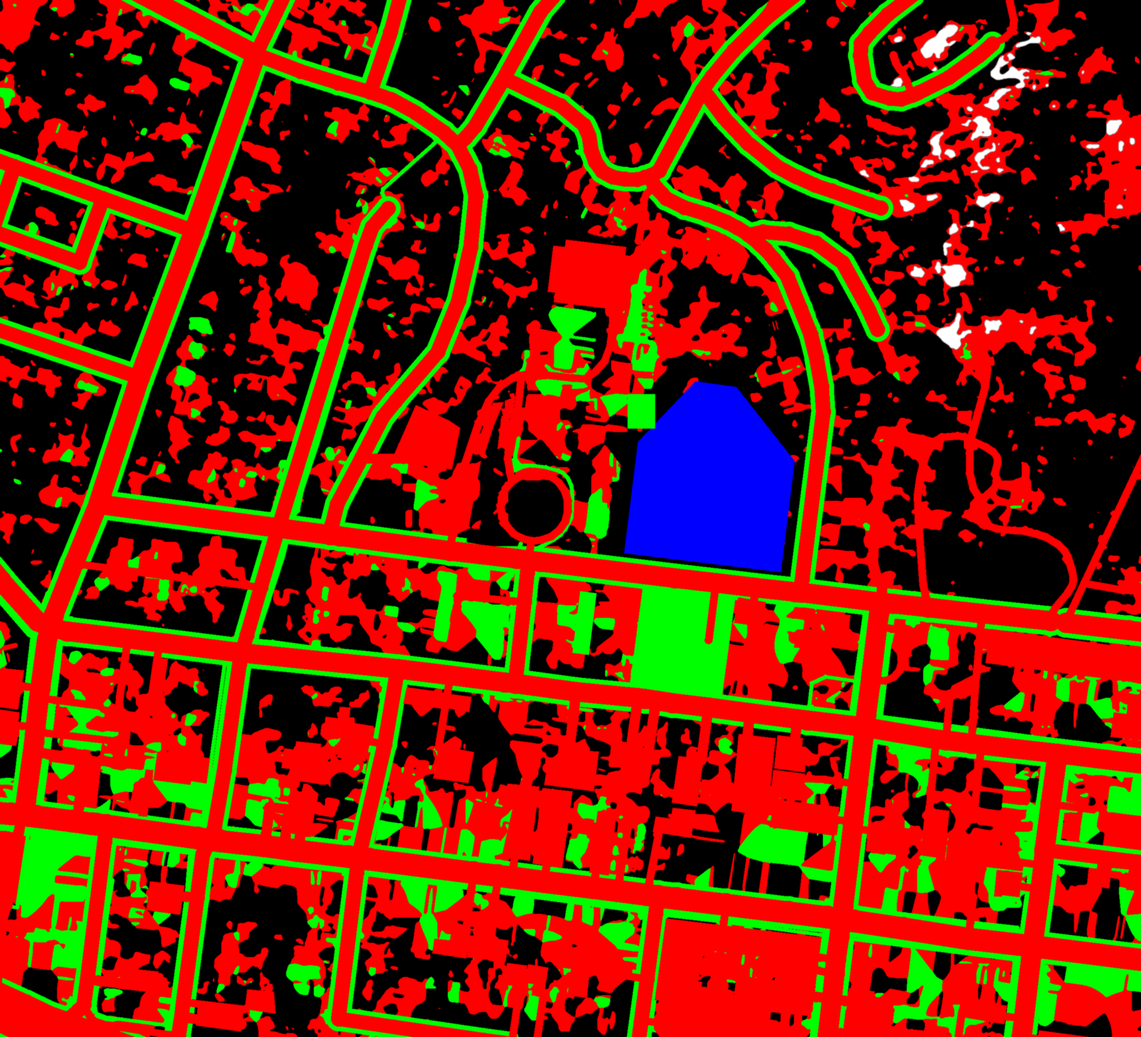
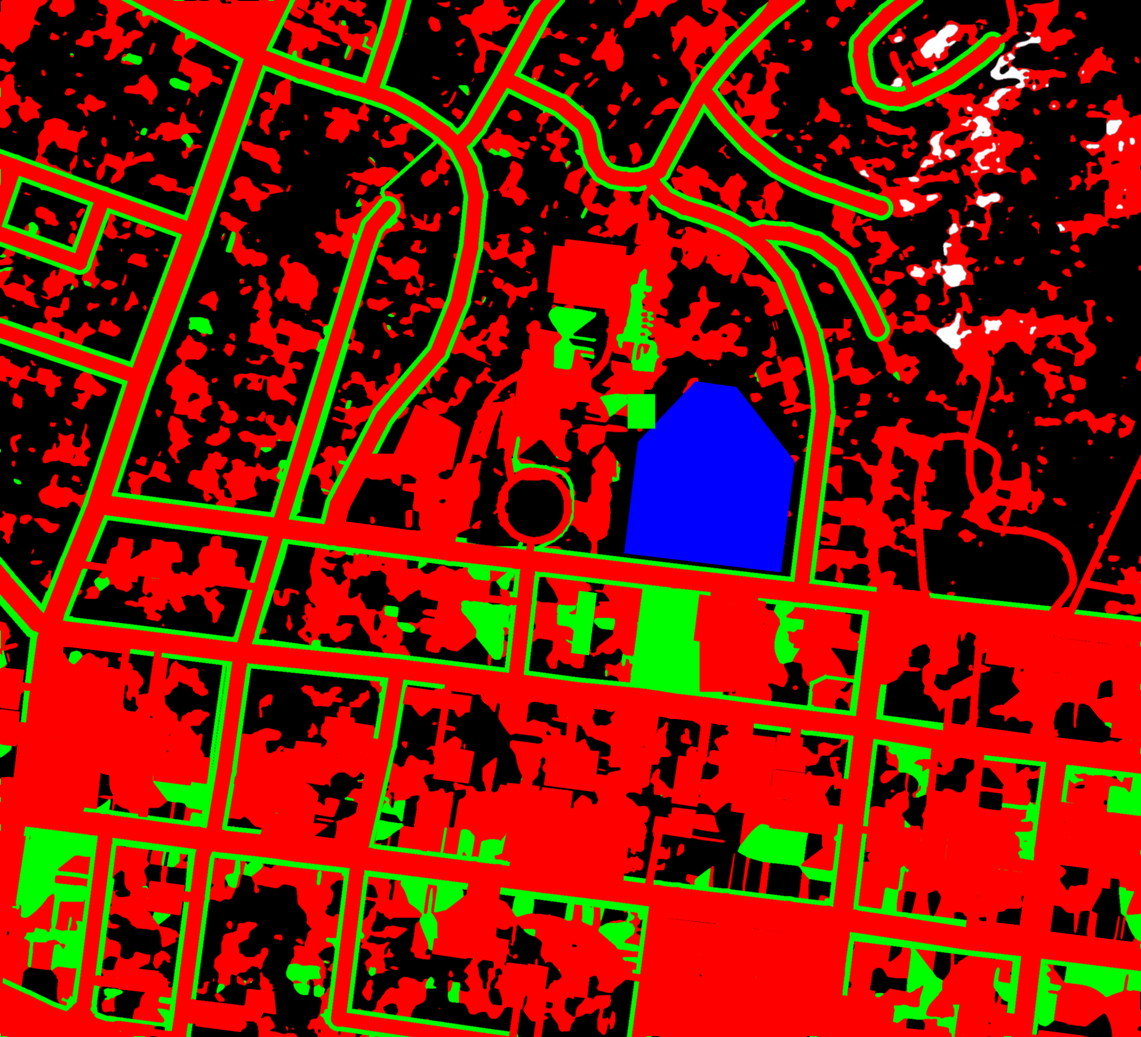
Marin QA fixes: exitable PAC ladder, buses and trees clear of parked cars, tree-sized jittered hill crowns, urban backdrop south/west, hillside houses with two storeys of windows, car-park ground cleaned (mask + photo), courtyard chairs and paving, pool-east lot asphalt, Mission Ave centre line, hel

diff --git a/src/campuses/marin/terrain.js b/src/campuses/marin/terrain.js
@@ -27,7 +27,7 @@ export function buildTerrain(ctx) {
   for (let j = 0; j < n - 1; j++) for (let i = 0; i < n - 1; i++) {
     const c = [[i, j], [i, j + 1], [i + 1, j + 1], [i + 1, j]];
     const any = c.some(([a, b]) => t.h[b * n + a] > 0); const inside = c.every(([a, b]) => inSat(a, b));
-    if (inside && !any) continue;                       // flat ground inside the satellite extent: the ground plane has it
+    if (!any) continue;                                 // flat: the ground plane has it inside the satellite extent, the urban sheet outside
     const dst = inside ? near : far;
     for (const k of [0, 1, 2, 0, 2, 3]) { const [a, b] = c[k]; dst.p.push(X(a), Hh(a, b), Z(b)); if (!inside) dst.c.push(...colAt(a, b)); }
   }
@@ -47,28 +47,83 @@ export function buildTerrain(ctx) {
   { const p = far.p, uv = []; for (let k = 0; k < p.length; k += 3) uv.push(p[k] / 90, p[k + 2] / 90); far.uv = uv; }
   const farMat = new THREE.MeshStandardMaterial({ vertexColors: true, map: tex, roughness: 1, metalness: 0 }); farMat.color.setRGB(2.4, 2.4, 2.4);
   mk(far, farMat, 'terrain:far');
-  // scattered tree crowns and a few hillside houses on the nearer slopes (two instanced meshes, no collision)
-  const H = terrainSampler(gen); const pb = ctx.playBounds; const dummy = new THREE.Object3D(); const col = new THREE.Color();
-  const crowns = [], houses = [];
-  for (let k = 0; k < 9000 && crowns.length < 2600; k++) {
-    const x = (rnd() - 0.5) * 2300, z = (rnd() - 0.5) * 2300; if (x > sat.minX - 10 && x < sat.maxX + 10 && z > sat.minZ - 10 && z < sat.maxZ + 10) continue;
-    const i = Math.round((x - t.x0) / t.step), j = Math.round((z - t.z0) / t.step); if (i < 1 || j < 1 || i > n - 2 || j > n - 2) continue;
-    const h = H(x, z) * edge(i, j); if (h < 2) continue; if (sm(i, j) > 0.6 && rnd() < 0.8) continue;      // keep the grass clearings open
-    crowns.push([x, h, z, 5 + rnd() * 5, rnd()]);
-    if (houses.length < 160 && h < 110 && rnd() < 0.09) houses.push([x + 9, h, z + 4, rnd()]);
+  // ---- flat land beyond the satellite photo: downtown San Rafael and the neighbourhoods carry on to the horizon as an
+  // "urban sheet" (street grid, roofs and street trees painted into one tiling texture, laid on the campus street grid)
+  // instead of a bare green plain. 8 triangles; the hills rise through it.
+  {
+    const S = 512, cv2 = makeCanvas(S, S), g2 = cv2.getContext('2d'); const r2 = mulberry32(94901); const nb = 4, bw = S / nb, st = 18;
+    g2.fillStyle = '#6d6e70'; g2.fillRect(0, 0, S, S);
+    const roofs = ['#cfccc4', '#b9b6ae', '#a8a59b', '#b3a386', '#8d8a84', '#96604c', '#d8d5cf', '#7c7b78', '#a79a8c'];
+    for (let by = 0; by < nb; by++) for (let bx = 0; bx < nb; bx++) {
+      const x0 = bx * bw + st / 2, y0 = by * bw + st / 2, w = bw - st; const leafy = r2() < 0.45;
+      g2.fillStyle = leafy ? '#5d6b4c' : '#85837c'; g2.fillRect(x0, y0, w, w);
+      g2.fillStyle = 'rgba(205,203,196,0.55)'; g2.fillRect(x0, y0, w, 2.5); g2.fillRect(x0, y0 + w - 2.5, w, 2.5); g2.fillRect(x0, y0, 2.5, w); g2.fillRect(x0 + w - 2.5, y0, 2.5, w);   // sidewalks
+      for (let k = 0, nR = leafy ? 9 : 6; k < nR; k++) { const rw = (leafy ? 12 : 22) + r2() * (leafy ? 14 : 34), rh = (leafy ? 12 : 18) + r2() * (leafy ? 12 : 26); const rx = x0 + 4 + r2() * Math.max(1, w - rw - 8), ry = y0 + 4 + r2() * Math.max(1, w - rh - 8); g2.fillStyle = 'rgba(20,22,20,0.35)'; g2.fillRect(rx + 2, ry + 2, rw, rh); g2.fillStyle = roofs[Math.floor(r2() * roofs.length)]; g2.fillRect(rx, ry, rw, rh); }
+      for (let k = 0, nT = leafy ? 30 : 9; k < nT; k++) { const tx = x0 + r2() * w, ty = y0 + r2() * w, tr = 3 + r2() * 4.5; g2.fillStyle = 'rgba(12,22,10,0.4)'; g2.beginPath(); g2.arc(tx + 1.5, ty + 1.5, tr, 0, 7); g2.fill(); g2.fillStyle = `rgb(${38 + r2() * 22 | 0},${74 + r2() * 30 | 0},${30 + r2() * 14 | 0})`; g2.beginPath(); g2.arc(tx, ty, tr, 0, 7); g2.fill(); }
+    }
+    const utex = canvasTexture(cv2, { aniso: 8 }); const TILE = 330, ca = Math.cos(0.12566), sa = Math.sin(0.12566);
+    const R = 6000, y = -0.1, x0 = sat.minX + 2, x1 = sat.maxX - 2, z0 = sat.minZ + 2, z1 = sat.maxZ - 2; const up = { p: [], uv: [] };
+    const q = (ax, az, bx, bz) => { for (const [x, z] of [[ax, az], [ax, bz], [bx, bz], [ax, az], [bx, bz], [bx, az]]) { up.p.push(x, y, z); up.uv.push((x * ca + z * sa) / TILE, (-x * sa + z * ca) / TILE); } };
+    q(-R, -R, R, z0); q(-R, z1, R, R); q(-R, z0, x0, z1); q(x1, z0, R, z1);
+    const um = new THREE.MeshStandardMaterial({ map: utex, roughness: 1, metalness: 0 }); um.color.setRGB(0.7, 0.7, 0.68);
+    mk(up, um, 'terrain:urban');
   }
-  if (crowns.length) {
-    // canopy dome: 18 smooth-shaded triangles, open underneath (never seen from below), darker toward the skirt so the
-    // massed crowns read as rounded oak / bay canopy with depth instead of flat-shaded polyhedra
-    const P = [[0, 0.86, 0]], C = [[1.08, 1.08, 1.08]]; const N = 6, da = Math.PI * 2 / N;
-    for (let k = 0; k < N; k++) { const a = k * da; P.push([Math.cos(a) * 0.82, 0.5, Math.sin(a) * 0.82]); C.push([0.95, 0.95, 0.95]); }
-    for (let k = 0; k < N; k++) { const a = (k + 0.5) * da; P.push([Math.cos(a) * 1.06, -0.42, Math.sin(a) * 1.06]); C.push([0.42, 0.42, 0.42]); }
-    const idx = []; for (let k = 0; k < N; k++) { const u0 = 1 + k, u1 = 1 + (k + 1) % N, l0 = 1 + N + k, l1 = 1 + N + (k + 1) % N; idx.push(0, u1, u0, u0, u1, l0, u1, l1, l0); }
-    const dg = new THREE.BufferGeometry(); dg.setAttribute('position', new THREE.Float32BufferAttribute(P.flat(), 3)); dg.setAttribute('color', new THREE.Float32BufferAttribute(C.flat(), 3));
-    dg.setAttribute('normal', new THREE.Float32BufferAttribute(P.flatMap(([x, y, z]) => { const yy = y + 0.45, l = Math.hypot(x, yy, z); return [x / l, yy / l, z / l]; }), 3)); dg.setIndex(idx);
-    const im = new THREE.InstancedMesh(dg, new THREE.MeshStandardMaterial({ roughness: 1, vertexColors: true }), crowns.length);
-    crowns.forEach(([x, y, z, r, v], k) => { const rr = r * 1.3; dummy.position.set(x, y + rr * 0.42, z); dummy.scale.set(rr, rr * (0.75 + v * 0.5), rr * (0.9 + ((v * 7) % 1) * 0.3)); dummy.rotation.set(0, v * 6, 0); dummy.updateMatrix(); im.setMatrixAt(k, dummy.matrix); const d = (v * 13) % 1; col.setRGB(0.026 + v * 0.03 + d * 0.012, 0.1 + v * 0.05 + d * 0.02, 0.016 + v * 0.012); im.setColorAt(k, col); });
-    im.name = 'terrain:crowns'; im.castShadow = false; im.receiveShadow = false; im.matrixAutoUpdate = false; im.instanceMatrix.needsUpdate = true; im.computeBoundingSphere(); scene.add(im);
+  // ---- tree crowns on the hills and among the flat-land blocks, plus a few hillside houses and low-rise roofs
+  // (instanced, no collision). Crowns are the size of the real trees; the band next to the photo edge is dense so the
+  // modelled trees do not stop on a line, farther out they thin and drop to 5 triangles each.
+  const H = terrainSampler(gen); const dummy = new THREE.Object3D(); const col = new THREE.Color();
+  const hAt = (x, z) => { const i = Math.round((x - t.x0) / t.step), j = Math.round((z - t.z0) / t.step); if (i < 1 || j < 1 || i > n - 2 || j > n - 2) return null; return { h: H(x, z) * edge(i, j), i, j }; };
+  const outside = (x, z) => Math.max(sat.minX - x, x - sat.maxX, sat.minZ - z, z - sat.maxZ);   // metres beyond the photo edge (< 0 inside)
+  const nearC = [], farC = [], houses = [], blocks = [];
+  for (let k = 0; k < 30000 && nearC.length < 2700; k++) {   // within 260 m of the photo: full domes
+    const x = sat.minX - 260 + rnd() * (sat.maxX - sat.minX + 520), z = sat.minZ - 260 + rnd() * (sat.maxZ - sat.minZ + 520); const d = outside(x, z); if (d < -1) continue;
+    const s = hAt(x, z); if (!s) continue; const hill = s.h >= 1.5;
+    if (rnd() > (d < 45 ? 1 : hill ? 0.8 : 0.16)) continue;                       // dense first row, wooded hills, sparse street trees
+    if (hill && d > 45 && sm(s.i, s.j) > 0.6 && rnd() < 0.8) continue;            // keep the grass clearings open
+    nearC.push([x, Math.max(0, s.h), z, 3.0 + rnd() * 2.6, rnd()]);
+    if (hill && houses.length < 60 && s.h < 110 && rnd() < 0.05) houses.push([x + 9, s.h, z + 4, rnd()]);
+  }
+  for (let k = 0; k < 30000 && farC.length < 2840; k++) {   // the rest of the hills
+    const x = (rnd() - 0.5) * 2400, z = (rnd() - 0.5) * 2400; if (outside(x, z) < 260) continue;
+    const s = hAt(x, z); if (!s || s.h < 2) continue; if (sm(s.i, s.j) > 0.6 && rnd() < 0.8) continue;
+    farC.push([x, s.h, z, 4.2 + rnd() * 3.4, rnd()]);
+    if (houses.length < 160 && s.h < 110 && rnd() < 0.04) houses.push([x + 9, s.h, z + 4, rnd()]);
+  }
+  for (let k = 0; k < 20000 && blocks.length < 520; k++) {  // low-rise roofs on the flat land south / west / east
+    const x = sat.minX - 420 + rnd() * (sat.maxX - sat.minX + 840), z = sat.minZ - 420 + rnd() * (sat.maxZ - sat.minZ + 840); const d = outside(x, z); if (d < 8) continue;
+    const s = hAt(x, z); if (!s || s.h > 0.3) continue; if (rnd() < d / 520) continue;
+    blocks.push([x, z, rnd(), rnd()]);
+  }
+  {
+    // leaf-clump texture so the crowns are not smooth blobs
+    const S = 64, lc = makeCanvas(S, S), lg = lc.getContext('2d'); lg.fillStyle = '#c4c4c4'; lg.fillRect(0, 0, S, S);
+    for (let k = 0; k < 260; k++) { const x = rnd() * S, y = rnd() * S, r = 1.2 + rnd() * 2.6, v = rnd() < 0.5 ? 255 : 40; lg.fillStyle = `rgba(${v},${v},${v},${0.12 + rnd() * 0.16})`; for (const [ox, oy] of [[0, 0], [S, 0], [-S, 0], [0, S], [0, -S]]) { lg.beginPath(); lg.arc(x + ox, y + oy, r, 0, 7); lg.fill(); } }
+    const leaf = canvasTexture(lc, { aniso: 2 });
+    const crownMesh = (list, full, name) => {
+      if (!list.length) return; const N = 5, da = Math.PI * 2 / N, jr = mulberry32(full ? 7 : 8); const P = [[0.06, full ? 0.9 : 0.62, -0.04]], C = [[1.05, 1.05, 1.05]];
+      for (let k = 0; k < N; k++) { const a = k * da + (jr() - 0.5) * 0.4, r = (full ? 0.78 : 1.0) * (0.84 + jr() * 0.32); P.push([Math.cos(a) * r, full ? 0.44 + jr() * 0.16 : -0.1, Math.sin(a) * r]); C.push(full ? [0.9, 0.9, 0.9] : [0.5, 0.5, 0.5]); }
+      if (full) for (let k = 0; k < N; k++) { const a = (k + 0.5) * da + (jr() - 0.5) * 0.4, r = 1.02 * (0.86 + jr() * 0.28); P.push([Math.cos(a) * r, -0.42 + jr() * 0.14, Math.sin(a) * r]); C.push([0.4, 0.4, 0.4]); }
+      const idx = []; for (let k = 0; k < N; k++) { const u0 = 1 + k, u1 = 1 + (k + 1) % N; idx.push(0, u1, u0); if (full) { const l0 = 1 + N + k, l1 = 1 + N + (k + 1) % N; idx.push(u0, u1, l0, u1, l1, l0); } }
+      const dg = new THREE.BufferGeometry(); dg.setAttribute('position', new THREE.Float32BufferAttribute(P.flat(), 3)); dg.setAttribute('color', new THREE.Float32BufferAttribute(C.flat(), 3));
+      dg.setAttribute('normal', new THREE.Float32BufferAttribute(P.flatMap(([x, y, z]) => { const yy = y + 0.45, l = Math.hypot(x, yy, z); return [x / l, yy / l, z / l]; }), 3));
+      dg.setAttribute('uv', new THREE.Float32BufferAttribute(P.flatMap(([x, y, z]) => [x * 0.9 + y * 0.35, z * 0.9 - y * 0.35]), 2)); dg.setIndex(idx);
+      const im = new THREE.InstancedMesh(dg, new THREE.MeshStandardMaterial({ roughness: 1, vertexColors: true, map: leaf }), list.length);
+      list.forEach(([x, y, z, r, v], k) => { dummy.position.set(x, y + (full ? r * 0.95 : r * 0.35), z); dummy.scale.set(r, r * (0.95 + v * 0.5), r * (0.85 + ((v * 7) % 1) * 0.3)); dummy.rotation.set(0, v * 6.283, 0); dummy.updateMatrix(); im.setMatrixAt(k, dummy.matrix); const d = (v * 13) % 1; col.setRGB(0.07 + v * 0.04 + d * 0.02, 0.17 + v * 0.07 + d * 0.04, 0.04 + v * 0.02); im.setColorAt(k, col); });
+      im.name = name; im.castShadow = false; im.receiveShadow = false; im.matrixAutoUpdate = false; im.instanceMatrix.needsUpdate = true; im.computeBoundingSphere(); scene.add(im);
+    };
+    crownMesh(nearC, true, 'terrain:crowns'); crownMesh(farC, false, 'terrain:crowns-far');
+  }
+  if (blocks.length) {
+    // roof boxes: four walls + a lighter top (10 triangles), on the street grid
+    const pos = [], cl = []; const cs = [[-0.5, -0.5], [0.5, -0.5], [0.5, 0.5], [-0.5, 0.5]];
+    const tri = (a, b, c, k) => { pos.push(...a, ...b, ...c); cl.push(k, k, k, k, k, k, k, k, k); }; const quad = (a, b, c, d, k) => { tri(a, b, c, k); tri(a, c, d, k); };
+    for (let i = 0; i < 4; i++) { const a = cs[i], b = cs[(i + 1) % 4]; quad([b[0], 0, b[1]], [a[0], 0, a[1]], [a[0], 1, a[1]], [b[0], 1, b[1]], 0.72); }
+    quad([-0.5, 1, 0.5], [0.5, 1, 0.5], [0.5, 1, -0.5], [-0.5, 1, -0.5], 1.0);
+    const bg = new THREE.BufferGeometry(); bg.setAttribute('position', new THREE.Float32BufferAttribute(pos, 3)); bg.setAttribute('color', new THREE.Float32BufferAttribute(cl, 3)); bg.computeVertexNormals();
+    const im = new THREE.InstancedMesh(bg, new THREE.MeshStandardMaterial({ roughness: 0.95, vertexColors: true }), blocks.length);
+    const tones = [[0.62, 0.6, 0.56], [0.5, 0.49, 0.47], [0.56, 0.5, 0.4], [0.7, 0.69, 0.66], [0.4, 0.4, 0.4], [0.5, 0.32, 0.25]];
+    blocks.forEach(([x, z, v, w], k) => { const big = w < 0.3; dummy.position.set(x, -0.1, z); dummy.scale.set(big ? 26 + v * 26 : 10 + v * 9, big ? 5 + w * 14 : 4.5 + w * 4, big ? 18 + ((v * 7) % 1) * 20 : 8 + ((v * 5) % 1) * 7); dummy.rotation.set(0, -0.12566 + (((v * 3) % 1) < 0.5 ? 0 : Math.PI / 2), 0); dummy.updateMatrix(); im.setMatrixAt(k, dummy.matrix); const c = tones[Math.floor(((v * 11) % 1) * tones.length)]; col.setRGB(c[0], c[1], c[2]); im.setColorAt(k, col); });
+    im.name = 'terrain:blocks'; im.castShadow = false; im.matrixAutoUpdate = false; im.instanceMatrix.needsUpdate = true; im.computeBoundingSphere(); scene.add(im);
   }
   if (houses.length) {
     // hillside house: four walls + a hip roof (14 triangles, vertex-coloured so one instanced mesh has pale walls and

diff --git a/src/campuses/marin/grounds.js b/src/campuses/marin/grounds.js
@@ -211,21 +211,44 @@ function vehicles(ctx) {
   const placed = []; let n = 0;
   const inPlay = (x, z, m = 3) => x > pb.minX + m && x < pb.maxX - m && z > pb.minZ + m && z < pb.maxZ - m;
   const keep = ctx.keepClear || [];
+  // the school buses (placed after the cars) and tree trunks: no car may overlap them. A car rejected for one of these
+  // still draws its three random numbers, so every other car keeps its place, type and colour.
+  const buses = [[...G(52, 26.9), ROT], [...G(-8, -134.5), ROT + Math.PI / 2], [...G(43, -128), ROT + Math.PI / 2]];
+  const trunks = (ctx.gen.trees || []).filter((t) => inPlay(t[0], t[1], -4));
+  const overlaps = (x, z, h, bx, bz, bh, hl, hw) => {   // oriented rectangles: car (2.3 x 0.95 half extents) vs (hl x hw) at (bx, bz, bh)
+    const R = [[x, z, h, 2.3, 0.95], [bx, bz, bh, hl, hw]];
+    for (const [, , a] of R) for (const ax of [[Math.cos(a), -Math.sin(a)], [Math.sin(a), Math.cos(a)]]) {
+      const ext = R.map(([cx, cz, hh, l, w]) => [cx * ax[0] + cz * ax[1], Math.abs(l * (Math.cos(hh) * ax[0] - Math.sin(hh) * ax[1])) + Math.abs(w * (Math.sin(hh) * ax[0] + Math.cos(hh) * ax[1]))]);
+      if (Math.abs(ext[0][0] - ext[1][0]) > ext[0][1] + ext[1][1]) return false;
+    }
+    return true;
+  };
   const car = (x, z, heading) => {
     if (!inPlay(x, z)) return; if (keep.some(([kx, kz, r]) => Math.hypot(x - kx, z - kz) < r)) return;
     if (placed.some(([px, pz]) => Math.hypot(px - x, pz - z) < 2.5)) return;
     for (const r of ctx.buildingRings || []) if (pointInRing(x, z, r)) return;
+    if (buses.some(([bx, bz, bh]) => overlaps(x, z, heading, bx - 0.15 * Math.cos(bh), bz + 0.15 * Math.sin(bh), bh, 6.1, 1.6)) || trunks.some((t) => Math.hypot(t[0] - x, t[1] - z) < 3.4 && overlaps(x, z, heading, t[0], t[1], 0, 0.15, 0.15))) { rnd(); rnd(); rnd(); placed.push([x, z]); return; }
     propKit.placeCar(ctx, pick(), x, z, heading + (rnd() - 0.5) * 0.05, propKit.CAR_COLORS[Math.floor(rnd() * propKit.CAR_COLORS.length)]); placed.push([x, z]); n++;
   };
   // stall paint: 10 cm lines just above the asphalt, one merged mesh, worn and faded out with distance (visual only)
-  const stripes = [], seen = new Set();
+  const stripes = [], stripeCol = [], seen = new Set();
   const stall = (cx, cz, dx, dz) => {
     const key = Math.round(cx * 4) + ',' + Math.round(cz * 4); if (seen.has(key)) return; seen.add(key);
     const h = 2.45, w = 0.05, y = 0.017; const a = [cx - dx * h, cz - dz * h], b = [cx + dx * h, cz + dz * h], px = -dz * w, pz = dx * w;
     const q = [[a[0] - px, a[1] - pz], [a[0] + px, a[1] + pz], [b[0] + px, b[1] + pz], [b[0] - px, b[1] - pz]];
     const up = (q[1][0] - q[0][0]) * (q[3][1] - q[0][1]) - (q[1][1] - q[0][1]) * (q[3][0] - q[0][0]) < 0;
-    for (const k of (up ? [0, 1, 2, 0, 2, 3] : [0, 2, 1, 0, 3, 2])) stripes.push(q[k][0], y, q[k][1]);
+    for (const k of (up ? [0, 1, 2, 0, 2, 3] : [0, 2, 1, 0, 3, 2])) { stripes.push(q[k][0], y, q[k][1]); stripeCol.push(0.84, 0.835, 0.8); }
   };
+  // Mission Avenue's double yellow centre line (the satellite paint is smoothed away up close)
+  for (const r of data.roads) {
+    if (r.tags.name !== 'Mission Avenue') continue;
+    for (let i = 0; i < r.line.length - 1; i++) {
+      const a = r.line[i], b = r.line[i + 1]; const L = Math.hypot(b[0] - a[0], b[1] - a[1]); if (L < 0.5 || !inPlay((a[0] + b[0]) / 2, (a[1] + b[1]) / 2, -30)) continue; const nx = -(b[1] - a[1]) / L, nz = (b[0] - a[0]) / L;
+      for (const o of [-0.11, 0.11]) { const q = [[a[0] + nx * (o - 0.05), a[1] + nz * (o - 0.05)], [a[0] + nx * (o + 0.05), a[1] + nz * (o + 0.05)], [b[0] + nx * (o + 0.05), b[1] + nz * (o + 0.05)], [b[0] + nx * (o - 0.05), b[1] + nz * (o - 0.05)]];
+        const up = (q[1][0] - q[0][0]) * (q[3][1] - q[0][1]) - (q[1][1] - q[0][1]) * (q[3][0] - q[0][0]) < 0;
+        for (const k of (up ? [0, 1, 2, 0, 2, 3] : [0, 2, 1, 0, 3, 2])) { stripes.push(q[k][0], 0.017, q[k][1]); stripeCol.push(0.8, 0.6, 0.08); } }
+    }
+  }
   // car parks (OSM amenity=parking): rows of stalls along the long axis, alternating with aisles
   for (const a of data.areas) {
     if (a.tags.amenity !== 'parking') continue; const ring = ensureCCW(a.outer[0]); const o = minAreaOBB(ring); if (!o) continue;
@@ -265,11 +288,12 @@ function vehicles(ctx) {
     const hw = r.tags.highway; if (hw !== 'tertiary' && hw !== 'secondary' && hw !== 'primary') continue;
     for (let i = 0; i < r.line.length - 1; i++) { const a = r.line[i], b = r.line[i + 1]; const L = Math.hypot(b[0] - a[0], b[1] - a[1]); if (L < 30) continue; const tx = (b[0] - a[0]) / L, tz = (b[1] - a[1]) / L; if (rnd() < 0.55) { const d = 10 + rnd() * (L - 20), sd = rnd() < 0.5 ? 1 : -1; car(a[0] + tx * d - tz * sd * 1.7, a[1] + tz * d + tx * sd * 1.7, Math.atan2(-tz, tx) + (sd > 0 ? 0 : Math.PI)); } }
   }
-  { const p = G(52, 26.9); propKit.placeBus(ctx, p[0], p[1], ROT); const q = G(-8, -134.5); propKit.placeBus(ctx, q[0], q[1], ROT + Math.PI / 2); const s = G(43, -128); propKit.placeBus(ctx, s[0], s[1], ROT + Math.PI / 2); }
+  for (const [bx, bz, bh] of buses) propKit.placeBus(ctx, bx, bz, bh);
   if (stripes.length) {
     const g = new THREE.BufferGeometry(); g.setAttribute('position', new THREE.Float32BufferAttribute(stripes, 3));
     g.setAttribute('normal', new THREE.Float32BufferAttribute(new Float32Array(stripes.length).map((_, i) => (i % 3 === 1 ? 1 : 0)), 3));
-    const mat = new THREE.MeshStandardMaterial({ color: 0xd6d5cc, roughness: 0.85, transparent: true, depthWrite: false, polygonOffset: true, polygonOffsetFactor: -3, polygonOffsetUnits: -3 });
+    g.setAttribute('color', new THREE.Float32BufferAttribute(stripeCol, 3));
+    const mat = new THREE.MeshStandardMaterial({ vertexColors: true, roughness: 0.85, transparent: true, depthWrite: false, polygonOffset: true, polygonOffsetFactor: -3, polygonOffsetUnits: -3 });
     const wear = (shader) => { shader.fragmentShader = shader.fragmentShader.replace('#include <map_fragment>', `#include <map_fragment>
   { float sd = length(vWPos - cameraPosition); vec2 sp = vWPos.xz * 3.1;
     float sw = fract(sin(dot(floor(sp * 6.0), vec2(12.9898, 78.233))) * 43758.5453) * 0.35 + fract(sin(dot(floor(sp), vec2(39.3468, 11.135))) * 24634.6345) * 0.4;
@@ -278,7 +302,7 @@ function vehicles(ctx) {
     ctx.applyBakedShadow(mat, ctx.sky.shadowUniforms, wear);
     const mesh = new THREE.Mesh(g, mat); mesh.name = 'stall-paint'; mesh.receiveShadow = true; mesh.castShadow = false; mesh.matrixAutoUpdate = false; mesh.renderOrder = 1; ctx.scene.add(mesh);
   }
-  ctx.stats = { cars: n, stallLines: stripes.length / 18 };
+  ctx.stats = { cars: n, paintLines: stripes.length / 18 };
 }
 
 // ------------------------------------------------------------------------------------------ streets

diff --git a/src/campuses/marin/school.js b/src/campuses/marin/school.js
@@ -214,8 +214,8 @@ function leadershipCenter(ctx) {
   { const wr = wellRoof(ctx, boxFromRect(29.9, 60.4, 12.9, 42.4), 9.4, 2.3, 3.3, { overhang: 0.8 }); const a = gp(29.9, 60.4, 0, -6.5); solarRows(ctx, a[0], a[1], 4.8, 20, wr.deck, 8); const r2 = mulberry32(13); for (const b of [9, 14.5]) { const p = gp(29.9, 60.4, 0, b); roofUnit(ctx, p[0], wr.deck, p[1], ROT + Math.PI / 2, r2); } }
   hipBuilding(ctx, rect(18.9, 58.6, 9.6, 34.6), 8.9, 'maMission', { rise: 2.2, overhang: 0.7, roofs: [boxFromRect(18.9, 58.6, 9.6, 34.6)] });
   // courtyard between the two: paved patio, pergola on the Mission Ave side, cafe tables
-  const pv = B.v('maPaver'); const c = rect(8.1, 60.5, 9.6, 36), y = 0.03;
-  pv.quad([c[3][0], y, c[3][1]], [c[2][0], y, c[2][1]], [c[1][0], y, c[1][1]], [c[0][0], y, c[0][1]], [0, 0], [4, 0], [4, 15], [0, 15]);
+  const pv = B.v('maPaver'); const c = rect(7.7, 60.5, 10.4, 36), y = 0.03;   // wall to wall between the two buildings
+  pv.quad([c[3][0], y, c[3][1]], [c[2][0], y, c[2][1]], [c[1][0], y, c[1][1]], [c[0][0], y, c[0][1]], [0, 0], [4.333, 0], [4.333, 15], [0, 15]);
   for (let i = 0; i < 4; i++) for (const b of [-21.5, -18.2]) { const p = gp(8.1, 60.5, -4.4 + i * 2.93, b); B.v('wood').box(p[0], 1.55, p[1], 0.22, 3.1, 0.22, ROT, 0.5); B.c('wood').box(p[0], 1.55, p[1], 0.3, 3.1, 0.3, ROT); }
   for (const b of [-21.5, -18.2]) { const p = gp(8.1, 60.5, 0, b); B.v('wood').box(p[0], 3.2, p[1], 10.2, 0.22, 0.16, ROT, 0.5); }
   for (let a = -4.8; a <= 4.81; a += 0.8) { const p = gp(8.1, 60.5, a, -19.85); B.v('wood').box(p[0], 3.38, p[1], 0.08, 0.16, 4.4, ROT, 0.5); }
@@ -226,8 +226,9 @@ function leadershipCenter(ctx) {
   for (const [a, b, r] of [[-2.9, -6.5, Math.PI / 2], [2.9, 8.5, -Math.PI / 2], [0, 16.6, 0]]) { const p = gp(8.1, 60.5, a, b); propKit.bench(ctx, p[0], p[1], ROT + r); }
   { const p = gp(8.1, 60.5, 3.2, -15.5); propKit.trashCan(ctx, p[0], p[1]); }
   for (const [a, b] of [[-2, -8], [2.2, -2], [-1.8, 5], [2.4, 11]]) for (let k = 0; k < 3; k++) { const an = k * 2.1 + a; const p = gp(8.1, 60.5, a + Math.cos(an) * 0.95, b + Math.sin(an) * 0.95); const ca = Math.cos(an), sa = Math.sin(an), R = -an + Math.PI / 2;   // bistro chair facing its table: slatted seat + back in aluminium on a dark frame
-    B.v('aluminum').box(p[0], 0.45, p[1], 0.4, 0.035, 0.4, R).box(p[0] + ca * 0.2, 0.7, p[1] + sa * 0.2, 0.4, 0.3, 0.03, R);
-    for (const sd of [-1, 1]) B.v('blackMetal').box(p[0] - sa * sd * 0.185, 0.215, p[1] + ca * sd * 0.185, 0.03, 0.43, 0.38, R).box(p[0] + ca * 0.2 - sa * sd * 0.185, 0.66, p[1] + sa * 0.2 + ca * sd * 0.185, 0.03, 0.46, 0.03, R); }
+    B.v('paint', true).setColor(0.58, 0.59, 0.6).box(p[0], 0.45, p[1], 0.4, 0.03, 0.4, R).box(p[0] + ca * 0.2, 0.7, p[1] + sa * 0.2, 0.4, 0.28, 0.025, R);
+    for (const sd of [-1, 1]) B.v('blackMetal').box(p[0] - ca * 0.17 - sa * sd * 0.185, 0.22, p[1] - sa * 0.17 + ca * sd * 0.185, 0.025, 0.44, 0.025, R).box(p[0] + ca * 0.2 - sa * sd * 0.185, 0.44, p[1] + sa * 0.2 + ca * sd * 0.185, 0.025, 0.88, 0.025, R); }
+  B.v('paint', true).setColor(1, 1, 1);
   for (const [a, b] of [[-2, -8], [2.2, -2], [-1.8, 5], [2.4, 11]]) { const p = gp(8.1, 60.5, a, b); B.v('aluminum').cyl(p[0], 0.72, p[1], 0.55, 0.55, 0.04, 14, 1, true).cyl(p[0], 0, p[1], 0.04, 0.04, 0.72, 6, 1, false); B.c('metal').box(p[0], 0.4, p[1], 1.1, 0.8, 1.1); }
 }
 
@@ -246,7 +247,9 @@ function performingArts(ctx, rings) {
       wallDecal(ctx, signTexture([['PERFORMING ARTS CENTER', 96, '#3a2a1c', '600']], { w: 1536, h: 160 }), F, F.L / 2, 6.4, 9.6, 1.0, 0.18);
     }
   }
-  ringLadder(ctx, rings.pac, 4, 0.3, roofY);
+  // roof ladder on the long west wall. (It used to sit on the 1.2 m jog at the north-west corner, where the parapets of
+  // the two neighbouring walls closed the gap to less than a player's width: nobody could step off the top.)
+  for (let i = 0; i < r.length; i++) { const a = r[i], b = r[(i + 1) % r.length]; const F = edgeFrame(a[0], a[1], b[0], b[1]); if (F.nx < -0.9 && F.L > 15) { ringLadder(ctx, r, i, Math.abs(a[1] + (b[1] - a[1]) * 0.2 - 65) < Math.abs(a[1] + (b[1] - a[1]) * 0.8 - 65) ? 0.2 : 0.8, roofY); break; } }
   flatBuilding(ctx, rings.low, 6.6, 'maLowCream', { units: 1 });
   // Founders Hall: long two-storey white bar with a clay-tile mansard edge
   const f = flatBuilding(ctx, rings.founders, 8.6, 'maWhite', { units: 2 });

diff --git a/src/campuses/marin/tools/macro_fix.js b/src/campuses/marin/tools/macro_fix.js
@@ -1,0 +1,24 @@
+// Visual-only clean-up of ground_macro.jpg (the ground photo tint): inside car parks, pixels the mask calls asphalt but
+// the photo shows as bright blotches (bare patches, paint, car remnants) or green smears (tree shadows / canopies read
+// as lawn) are pulled to the car parks' mean asphalt tone. From the air those lots were covered in pale amoebas.
+// Needs a JPEG codec, so it runs in the browser: open dev/marin.html, paste this in the console (after mask_fix.mjs has
+// been run), and save the returned blob over public/campuses/marin/ground_macro.jpg.   await macroFix()
+async function macroFix() {
+  const ld = async (url) => { const im = new Image(); im.src = url; await im.decode(); const c = document.createElement('canvas'); c.width = im.width; c.height = im.height; const g = c.getContext('2d', { willReadFrequently: true }); g.drawImage(im, 0, 0); return { c, g, w: im.width, h: im.height, d: g.getImageData(0, 0, im.width, im.height) }; };
+  const M = await ld('/campuses/marin/ground_macro.jpg?x=' + Date.now()), K = await ld('/campuses/marin/ground_mask.png?x=' + Date.now()); const campus = await (await fetch('/campuses/marin/campus.json')).json();
+  const W = M.w, H = M.h, sx = W / 660, sz = H / 600; const region = new Uint8Array(W * H);   // image covers x -330..330, z -300..300
+  const fillPoly = (ring) => { const P = ring.map(([x, z]) => [(x + 330) * sx, (z + 300) * sz]); let y0 = 1e9, y1 = -1e9; for (const p of P) { y0 = Math.min(y0, p[1]); y1 = Math.max(y1, p[1]); }
+    for (let y = Math.max(0, Math.floor(y0)); y <= Math.min(H - 1, Math.ceil(y1)); y++) { const cy = y + 0.5, xs = []; for (let i = 0; i < P.length; i++) { const a = P[i], b = P[(i + 1) % P.length]; if ((a[1] <= cy) !== (b[1] <= cy)) xs.push(a[0] + (cy - a[1]) / (b[1] - a[1]) * (b[0] - a[0])); }
+      xs.sort((a, b) => a - b); for (let i = 0; i + 1 < xs.length; i += 2) for (let x = Math.max(0, Math.ceil(xs[i] - 0.5)); x <= Math.min(W - 1, Math.floor(xs[i + 1] - 0.5)); x++) region[y * W + x] = 1; } };
+  for (const a of campus.areas) if (a.tags && a.tags.amenity === 'parking') fillPoly(a.outer[0]);
+  // lots OSM has no polygon for (world x0, z0, x1, z1): south of 4th St, the top row of the north lot, east of the pool
+  for (const [x0, z0, x1, z1] of [[-12, 158, 42, 202], [-4, -162, 28, -150], [75, 50, 95, 100]]) fillPoly([[x0, z0], [x1, z0], [x1, z1], [x0, z1]]);
+  const md = M.d.data, kd = K.d.data, kx = K.w / W, kz = K.h / H; let sr = 0, sg = 0, sb = 0, sn = 0;
+  const asph = (i) => { const x = i % W, y = (i / W) | 0; const o = (Math.min(K.h - 1, Math.floor((y + 0.5) * kz)) * K.w + Math.min(K.w - 1, Math.floor((x + 0.5) * kx))) * 4; return kd[o] > 200 && kd[o + 2] < 60; };
+  for (let i = 0; i < W * H; i++) { if (!region[i] || !asph(i)) continue; const r = md[i * 4], g = md[i * 4 + 1], b = md[i * 4 + 2], L = (r + g + b) / 3; if (L > 60 && L < 135 && g < r + 8) { sr += r; sg += g; sb += b; sn++; } }
+  const T = [sr / sn, sg / sn, sb / sn]; const k = new Float32Array(W * H);
+  for (let i = 0; i < W * H; i++) { if (!region[i] || !asph(i)) continue; const r = md[i * 4], g = md[i * 4 + 1], b = md[i * 4 + 2], L = (r + g + b) / 3; k[i] = Math.max(Math.max(0, Math.min(1, (L - (T[0] + T[1] + T[2]) / 3 - 14) / 22)), Math.max(0, Math.min(1, (g - Math.max(r, b) - 4) / 10))); }
+  const k2 = new Float32Array(W * H), R = 2; for (let y = R; y < H - R; y++) for (let x = R; x < W - R; x++) { let m = 0; for (let b = -R; b <= R; b++) for (let a = -R; a <= R; a++) m = Math.max(m, k[(y + b) * W + x + a]); k2[y * W + x] = m; }
+  for (let i = 0; i < W * H; i++) { const kk = k2[i] * 0.92; if (kk <= 0 || !region[i]) continue; const n = ((i * 2654435761) >>> 0) % 9 - 4; for (let c = 0; c < 3; c++) md[i * 4 + c] = Math.round(md[i * 4 + c] * (1 - kk) + (T[c] + n) * kk); }
+  M.g.putImageData(M.d, 0, 0); return new Promise((r) => M.c.toBlob(r, 'image/jpeg', 0.9));
+}

diff --git a/src/campuses/marin/town.js b/src/campuses/marin/town.js
@@ -151,7 +151,9 @@ export function buildTown(ctx) {
       if (info.roof === 'flat') for (let i = 0; i < ring.length; i++) { const a = ring[i], c = ring[(i + 1) % ring.length]; p.wall(a[0], a[1], c[0], c[1], y0, h); }
       else {   // houses on the slopes: the same windowed siding textures as the solid houses (no extra triangles)
         const hw = B.v('house' + (b.id % 8)); const K = Math.ceil((h - y0) / 2.9);
-        for (let i = 0; i < ring.length; i++) { const a = ring[i], c = ring[(i + 1) % ring.length]; const L = Math.hypot(c[0] - a[0], c[1] - a[1]); if (L < 0.05) continue; const F = edgeFrame(a[0], a[1], c[0], c[1]); wallRect(hw, F, 0, L, y0, h, 0, L > 3.2 ? [0, K + (y0 - h) * HOUSE_S[1], Math.max(1, Math.round(L / 4)), K] : [0.02, 0.04, 0.2, 0.9]); }
+        for (let i = 0; i < ring.length; i++) { const a = ring[i], c = ring[(i + 1) % ring.length]; const L = Math.hypot(c[0] - a[0], c[1] - a[1]); if (L < 0.05) continue; const F = edgeFrame(a[0], a[1], c[0], c[1]); const yw = Math.max(y0, h - 5.8);   // windows on the top two storeys only; a downhill wall below that is plain foundation
+          wallRect(hw, F, 0, L, yw, h, 0, L > 3.2 ? [0, 2 + (yw - h) * HOUSE_S[1], Math.max(1, Math.round(L / 4)), 2] : [0.02, 0.04, 0.2, 0.9]);
+          if (yw > y0 + 0.05) { p.setColor(0.36, 0.35, 0.32); p.wall(a[0], a[1], c[0], c[1], y0, yw); p.setColor(wc[0], wc[1], wc[2]); } }
       }
       p.setColor(1, 1, 1);
       if (info.roof === 'flat') { const rr = gen.roofs; B.v('roofSat').poly(ring, null, h, (x, z) => [(x - rr.minX) / (rr.maxX - rr.minX), 1 - (z - rr.minZ) / (rr.maxZ - rr.minZ)]); }

diff --git a/src/campuses/marin/campus.js b/src/campuses/marin/campus.js
@@ -43,7 +43,7 @@ export default {
   heliPark: [
     [108, 0, -30], [62, 0, -22], [76, 0, -74], [12, 0, -140], [-86, 0, -44], [-20, 0, -5], [84, 0, 58], [-141, 0, 131],
     [-30, 0, 150], [-10, 0, 180], [128, 0, 172], [70, 0, 150], [150, 0, 62], [-160, 0, 160], [100, 0, 258], [-48, 0, 240],
-    [-196, 0, 0], [196, 0, 44], [0, 0, 106], [-110, 0, 96], [170, 0, 110], [-150, 0, -150], [60, 0, -190], [180, 0, -60],
+    [-196, 0, 0], [196, 0, 44], [8, 0, 92], [-110, 0, 96], [170, 0, 110], [-150, 0, -150], [60, 0, -190], [180, 0, -60],
   ],
   // Menu camera tour: camera path + look-at path (Catmull-Rom), field of view, caption. -z = north (uphill).
   tour: [

diff --git a/src/campuses/marin/tools/gen.py b/src/campuses/marin/tools/gen.py
@@ -116,9 +116,10 @@ print('class fractions', [(cls == c).mean().round(3) for c in range(5)])
 # ---------------------------------------------------------------- mask (soft weights)
 # visual-only paving for the mask (ground shader + grass blades); the class grid gameplay reads keeps `cls` as it is.
 # Grid-aligned rectangles (cx, cz, w, d), rotated 7.2 deg like the street grid: the Library / Leadership Center courtyard.
-# tools/mask_fix.mjs patches an existing ground_mask.png the same way without the Python imaging stack.
+# tools/mask_fix.mjs patches an existing ground_mask.png the same way without the Python imaging stack, and also makes
+# the car parks wall-to-wall asphalt and despeckles concrete / grass blobs: RUN IT AFTER THIS SCRIPT (node src/campuses/marin/tools/mask_fix.mjs).
 mcls = cls.copy()
-for (cx, cz, w, d) in [(8.1, 60.5, 9.6, 36)]:
+for (cx, cz, w, d) in [(7.7, 60.5, 10.4, 36)]:
     ca, sa = math.cos(math.radians(7.2)), math.sin(math.radians(7.2))
     ring = [(cx + a * ca - b * sa, cz + a * sa + b * ca) for a, b in [(-w / 2, -d / 2), (w / 2, -d / 2), (w / 2, d / 2), (-w / 2, d / 2)]]
     mcls[raster(polys=[([ring], [])])] = CONC
